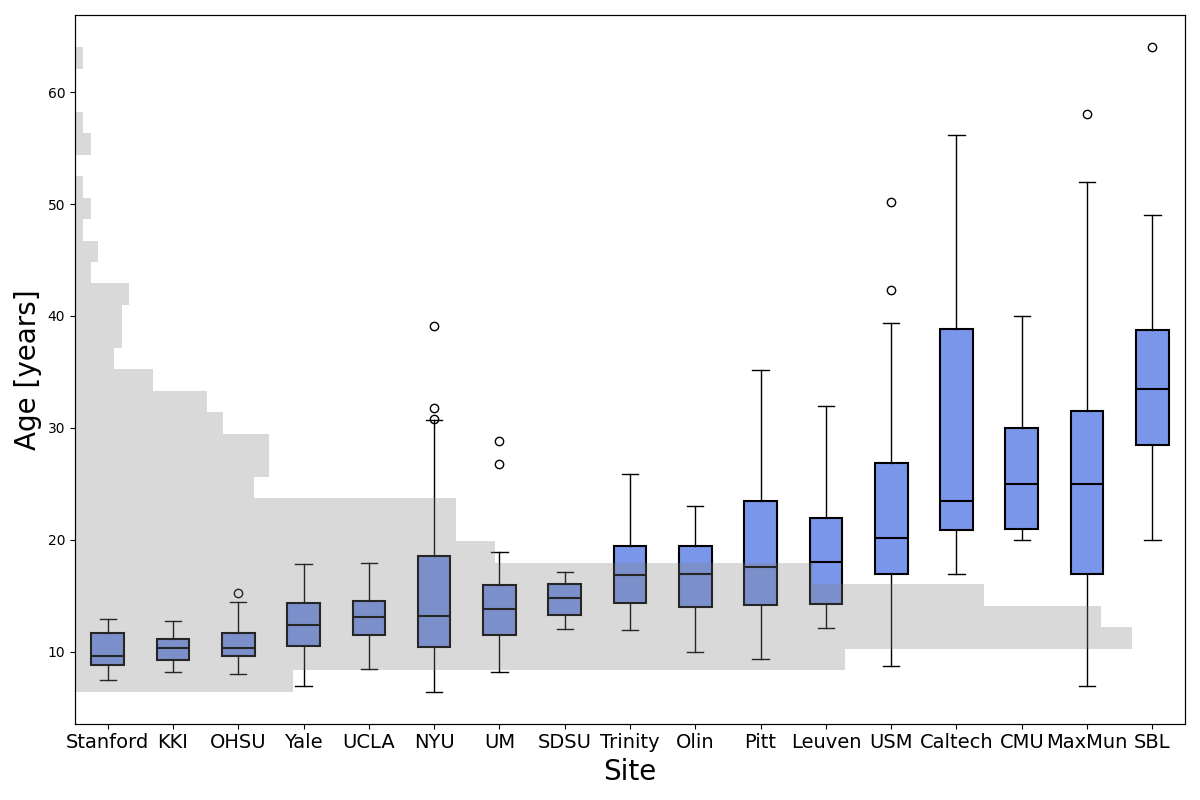
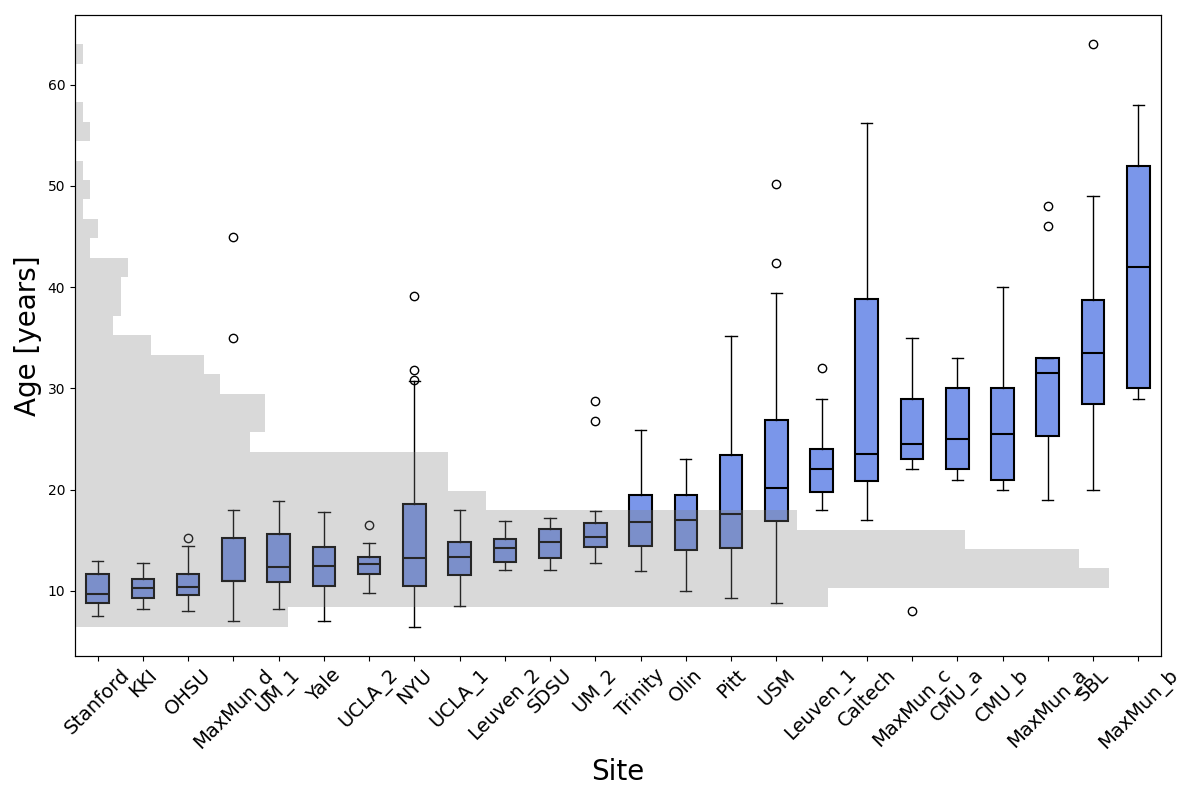
added smogn definitely

Changed region(s): [[0.0, 0.0312, 1.0, 1.0], [0.0308, 0.0938, 0.0617, 0.125]]

diff --git a/brainage/utils.py b/brainage/utils.py
@@ -5,7 +5,7 @@ import numpy as np
 import pandas as pd
 from loguru import logger
 from neuroHarmonize import harmonizationLearn, harmonizationApply
-
+from smogn import smoter # SmoteR for regression-oriented oversampling
 
 def abs_path(local_filename, data_folder):
     """
@@ -57,6 +57,22 @@ def csv_reader(filename, column_name=None, show_flag=False):
             print(df[column_name])
         return df[column_name]
 
+def mean_spurious(df):
+    """
+    Handles spurious zero and -9999 values in the data.
+    
+    :param df: Input DataFrame
+    :type df: pd.DataFrame
+    :return: Cleaned DataFrame
+    :rtype: pd.DataFrame
+    """
+    # Replace -9999 with NaN
+    df.replace(-9999, np.nan, inplace=True)
+    # Replace 0 with NaN
+    df.replace(0, np.nan, inplace=True)
+    # Fill NaN values with the mean of the respective columns
+    df.fillna(df.mean(), inplace=True)
+    return df
 
 def check_for_spurious(df: pd.DataFrame, show: bool = False) -> pd.DataFrame:
     """
@@ -221,15 +237,20 @@ def get_data(filename, target_col, ex_cols=0, **kwargs):
     :param kwargs: Additional keyword arguments:
                    - group_col: Name of the group column (optional).
                    - site_col: Name of the site column for harmonization (optional).
+                   -overs: Boolean flag in order to perform SmoteR oversampling (optional).
     :return: NumPy arrays of features, targets, and optionally the group.
     :rtype: tuple(numpy.ndarray, numpy.ndarray, numpy.ndarray or None)
     """
     group_col = kwargs.get('group_col', None)
     site_col = kwargs.get('site_col', None)
+    overs = kwargs.get('overs', False)
     logger.info(f'Reading {os.path.basename(filename)} with {target_col} as target column')
     # Importing data from csv file as data
-    data = pd.read_csv(filename, delimiter=';')
-    data = handle_spurious(data)
+    data = pd.read_csv(filename, delimiter = ';')
+    if overs:
+        data = smoter(data, target_col)
+        logger.info('Oversampling performed with SmoteR')
+    #data = mean_spurious(data)
 
     # if group_col is not None:
     #    data = data[data[group_col] == -1]
@@ -237,7 +258,7 @@ def get_data(filename, target_col, ex_cols=0, **kwargs):
     # Excluding the first ex_cols columns
     features_df = data.iloc[:, ex_cols:]
     # Removing spurious values from features and convert in to numpy matrix
-    features = features_df.values
+    features = mean_spurious(features_df).values
     # Target array (numpy.ndarray)
     targets = data[target_col].values
     if site_col in data.columns:
@@ -408,10 +429,16 @@ def csv_reader_parsing():
 
 
 if __name__ == "__main__":
-    csv_reader_parsing()
+    #csv_reader_parsing()
 
     # Uncomment for a rapid test
+<<<<<<< Updated upstream
     # df = csv_reader("../data/abide.csv")
     # check_site_correlation(df).to_excel("site_correlation.xlsx")
     # df = handle_spurious(df)
     # check_site_correlation(df).to_excel("site_correlation_no_spurious.xlsx")
+=======
+    df = csv_reader("../data/abide.csv")
+    # handle_spurious(df)
+    get_correlation(df)
+>>>>>>> Stashed changes

diff --git a/plots/age_hist.py b/plots/age_hist.py
@@ -5,7 +5,7 @@ import matplotlib.colors as mcolors
 
 # Extraction of data as pandas dataframe
 data = pd.read_csv(r'../data/abide.csv', delimiter=';')
-data['SITE'] = data['FILE_ID'].str.split('_').str[0]
+data['SITE'] = data['FILE_ID'].str.rsplit('_', n = 1).str[0]
 
 age_by_site = {}
 for site, age_group in data.groupby('SITE')['AGE_AT_SCAN']:
@@ -27,7 +27,7 @@ bp = ax.boxplot([age_by_site[site] for site in sorted_sites],
 for patch in bp['boxes']:
     patch.set_facecolor(mcolors.to_rgba('royalblue', alpha=0.7))
 
-ax.set_xticklabels(sorted_sites, fontsize = 14)
+ax.set_xticklabels(sorted_sites, fontsize = 14, rotation = 45)
 ax.set_xlabel('Site', fontsize = 20)
 ax.set_ylabel('Age [years]', fontsize = 20)
 ax.grid(False)
@@ -43,4 +43,5 @@ ax_hist.set_ylabel('Age [years]')
 ax_hist.grid(False)
 
 plt.tight_layout()
+plt.savefig('histogram_age.png', transparent = True)
 plt.show()

diff --git a/plots/oversampling_hist.py b/plots/oversampling_hist.py
@@ -12,17 +12,18 @@ _, targets_os = get_data(r'../data/abide_globals.csv',
 plt.figure(figsize=(10, 6))
 
 plt.hist(targets, bins=30, color='blue',
-         alpha=0.5, edgecolor='black', label='Original targets')
+         alpha=0.5, edgecolor=None, label='Original targets')
 
 plt.hist(targets_os, bins=30, color='green',
-         alpha=0.5, edgecolor='black', label='Oversampled targets')
+         alpha=0.5, edgecolor=None, label='Oversampled targets')
 
-plt.title('Oversampling on ages')
-plt.xlabel('Age')
-plt.ylabel('Occurrences')
+plt.title('Oversampling on ages', fontsize = 28)
+plt.xlabel('Age', fontsize = 24)
+plt.ylabel('Occurrences', fontsize = 24)
 
-plt.legend()
+plt.legend(fontsize = 20)
 
+plt.savefig('oversampling_hist.png', transparent = True)
 plt.show()
 
 
